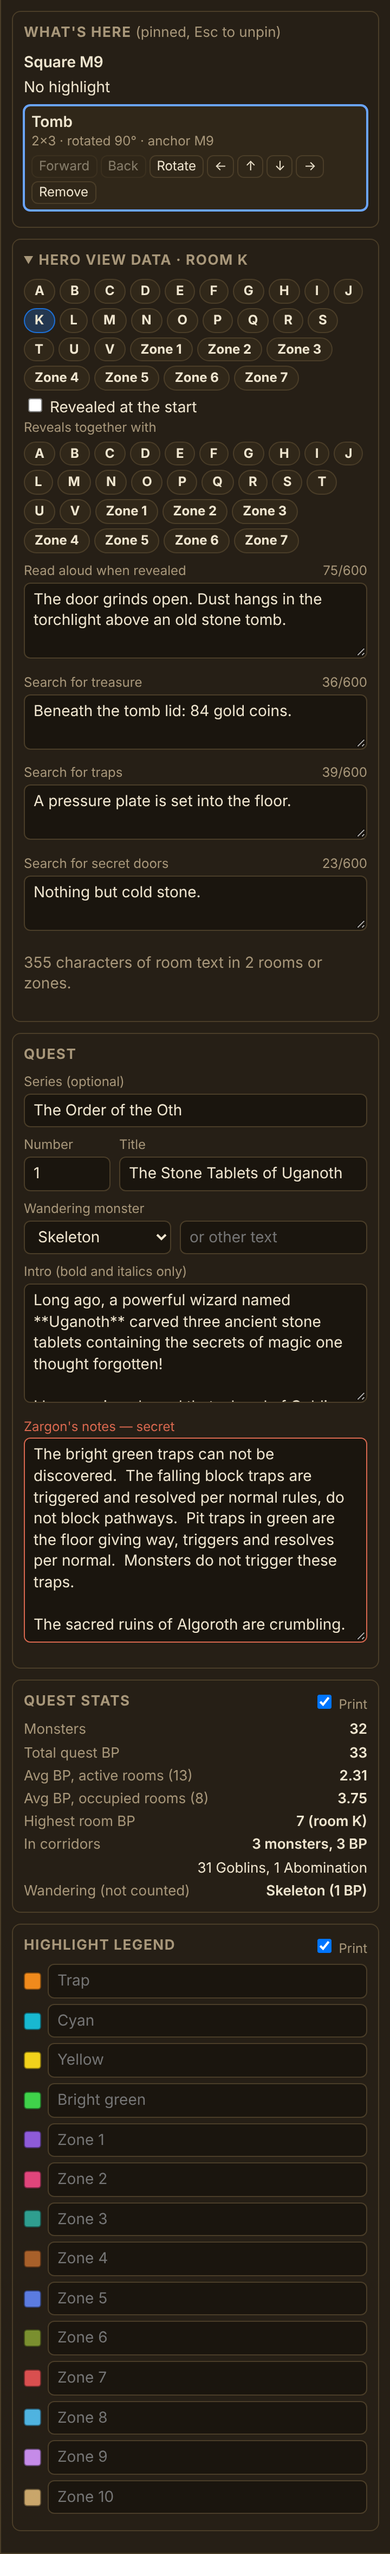
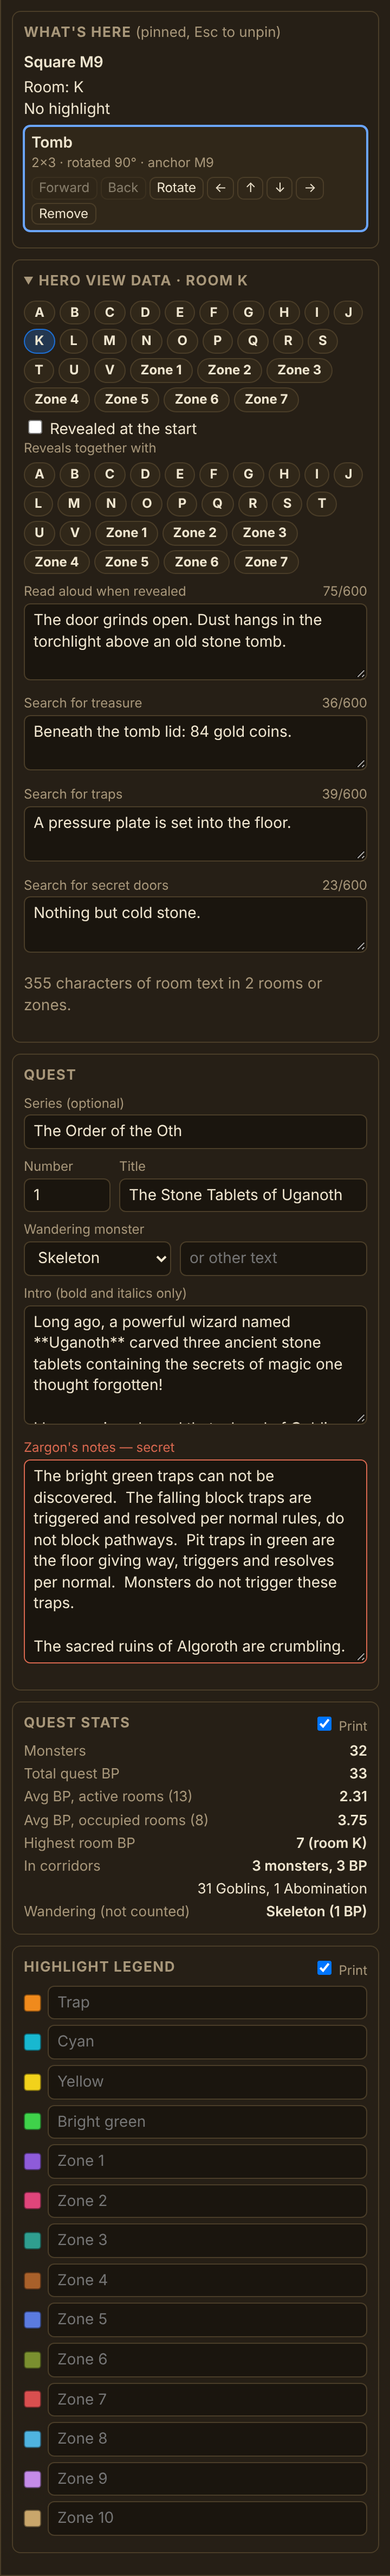
feat: the What's here panel names the room of the square
A pinned or hovered square inside a room now shows "Room: K" under the
square label, like the zone line. Corridor squares show no room line.

This work was substantially AI-generated with human review and
direction throughout.

Vibe-Coder: Vibe-Coder 1.z3r0 <243014891+vibecoder-1z3r0@users.noreply.github.com>

diff --git a/src/js/ui.js b/src/js/ui.js
@@ -1,4 +1,5 @@
 // The editor: tools, pointer handling, inspector, quest fields, history and URL sync.
+import { isRoom, roomAt } from "./board.js";
 import { BY_ID, CATALOG, GROUPS, MONSTERS, footprint } from "./catalog.js";
 import {
   CELL,
@@ -456,6 +457,8 @@ function renderInspector() {
   const hl = highlightAt(app.state, cell.x, cell.y);
   const hlName = HIGHLIGHTS.find((h) => h.value === hl)?.name ?? `Highlight ${hl}`;
   box.append(el("div", { class: "square", text: `Square ${squareLabel(cell.x, cell.y)}` }));
+  const room = roomAt(cell.x, cell.y);
+  if (isRoom(room)) box.append(el("div", { class: "meta", text: `Room: ${room}` }));
   box.append(el("div", { class: "meta", text: hl ? `Highlight: ${hlName}` : "No highlight" }));
   const zone = ZONES[app.state.zones[cell.y * COLS + cell.x] - 1];
   if (zone) box.append(el("div", { class: "meta", text: `Zone: ${app.state.legend[zone.legendKey] || zone.name}` }));

diff --git a/tests/test_editor.py b/tests/test_editor.py
@@ -119,6 +119,24 @@ def test_clicking_a_stacked_square_again_cycles_down_the_stack(page):
     assert first != second
 
 
+def pin(page, x, y):
+    page.evaluate("window.scrollTo(0, 0)")
+    click_cell(page, x, y)
+
+
+def test_the_whats_here_panel_names_the_room_of_the_pinned_square(page):
+    pin(page, 2, 2)  # inside room A (x 1-4, y 1-3)
+    text = page.locator("#inspector").inner_text()
+    assert "Room: A" in text
+    pin(page, 11, 8)  # inside room K (x 10-15, y 7-12)
+    assert "Room: K" in page.locator("#inspector").inner_text()
+
+
+def test_the_whats_here_panel_names_no_room_for_a_corridor_square(page):
+    pin(page, 0, 0)
+    assert "Room" not in page.locator("#inspector").inner_text().replace("Room tiles", "")
+
+
 def test_inspector_lists_the_stack_top_first_and_can_reorder(page):
     place(page, "goblin", 5, 5)
     place(page, "orc", 5, 5)

diff --git a/SESSION_LOG.md b/SESSION_LOG.md
@@ -237,19 +237,24 @@ Source: `/root/.claude/projects/-home-user-the-quest-map-generator/2be6d510-95bb
 | 226 | Ran out of zones.... lol https://vibecoder-1z3r0.github.io/the-quest-m… | 03:57:36 | 12m 26s | 3m 36s | 166 | 85,341 | 457,241 | 20,578,351 |
 | 227 | Wait... you've moved to v2 for links?  What happens with my existing l… | 04:13:38 | 3s | 1m 43s | 4 | 384 | 27 | 288,135 |
 | 228 | Why do we need v2? | 04:15:25 | 6s | 59s | 8 | 1,386 | 20 | 577,096 |
-| 229 | Yes let's do an in place conversion | 04:16:30 | 4m 48s | — | 58 | 25,941 | 37,670 | 8,062,292 |
+| 229 | Yes let's do an in place conversion | 04:16:30 | 4m 57s | 15m 54s ⏳ | 62 | 27,333 | 40,220 | 8,680,850 |
+| 230 | What happens if there's a link that doesn't work? | 04:37:21 | 13s | 59s | 12 | 2,276 | 21,244 | 1,264,754 |
+| 231 | You updated the links in the README? | 04:38:32 | 3s | 21s | 8 | 698 | 22 | 644,690 |
+| 232 | PR | 04:38:57 | 7s | 40s | 6 | 726 | 671 | 645,418 |
+| 233 | MAD | 04:39:44 | 4s | 10h 46m ⏳ | 6 | 279 | 266 | 646,987 |
+| 234 | When I select a square in a room the what's here area should have the … | 15:26:23 | 2m 2s | — | 36 | 4,713 | 542,521 | 4,037,307 |
 
-**Total turns:** 229  
-**Total agent time spent (excl. flagged):** 4h 11m  
-**Total human think time (excl. outliers):** 4h 32m  
-**Average human think time (excl. outliers):** 1m 25s  
-**Think-time outliers (> 15 min):** 35  
-**Total input tokens:** 5,401  
-**Total output tokens:** 2,629,866  
-**Total cache-write tokens:** 23,342,695  
-**Total cache-read tokens:** 953,440,616  
+**Total turns:** 234  
+**Total agent time spent (excl. flagged):** 4h 14m  
+**Total human think time (excl. outliers):** 4h 34m  
+**Average human think time (excl. outliers):** 1m 24s  
+**Think-time outliers (> 15 min):** 37  
+**Total input tokens:** 5,473  
+**Total output tokens:** 2,639,950  
+**Total cache-write tokens:** 23,909,969  
+**Total cache-read tokens:** 961,298,330  
 **Cache hit ratio (cache-read ÷ all prompt-side tokens):** 98%
 
 ⚠ Turn(s) 179, 183, 193 had an 'agent time spent' over 30 min (total 1h 59m), which is implausible as real agent work — likely a transcript entry logged near session-resume time rather than when it actually ran. Excluded from the agent-time total above.
 
-⏳ Turn(s) 8, 13, 53, 54, 62, 76, 85, 105, 124, 129, 137, 145, 147, 148, 149, 150, 158, 159, 162, 164, 177, 181, 182, 193, 199, 200, 202, 205, 209, 212, 214, 218, 221, 222, 225 had a 'human think time' over 15 min (total 184h 37m) — likely a break, a resumed session, or time reading a long response rather than active back-and-forth. Excluded from BOTH the total and the average above (still shown per-row).
+⏳ Turn(s) 8, 13, 53, 54, 62, 76, 85, 105, 124, 129, 137, 145, 147, 148, 149, 150, 158, 159, 162, 164, 177, 181, 182, 193, 199, 200, 202, 205, 209, 212, 214, 218, 221, 222, 225, 229, 233 had a 'human think time' over 15 min (total 195h 40m) — likely a break, a resumed session, or time reading a long response rather than active back-and-forth. Excluded from BOTH the total and the average above (still shown per-row).

diff --git a/AGENTS.md b/AGENTS.md
@@ -213,7 +213,7 @@ decisions behind them; `docs/FORMAT.md` 4.7 and 4.8 the bytes). The view flag is
   themselves, others print with the default light theme (enforce in `@media print`). The theme is stored in the URL (theme id in the flags
   byte, `docs/FORMAT.md`); toggling it updates the hash but is not an undo step.
 - "What's here" panel: hover shows, click/tap pins. Lists everything in the square top to bottom
-  (pieces with footprint, anchor, rotation; the highlight) with Bring forward, Send back, Rotate,
+  (the room letter, the highlight and zone, pieces with footprint, anchor, rotation) with Bring forward, Send back, Rotate,
   Move and Remove. Board-style coordinates (column letter + row number), e.g. `E8`.
   **The panel follows the selected piece**: moving it (panel buttons, arrow keys, drag) or rotating it re-pins
   the panel to the piece's new square, so it never loses the piece. Placing a piece selects it and leaves the Place
